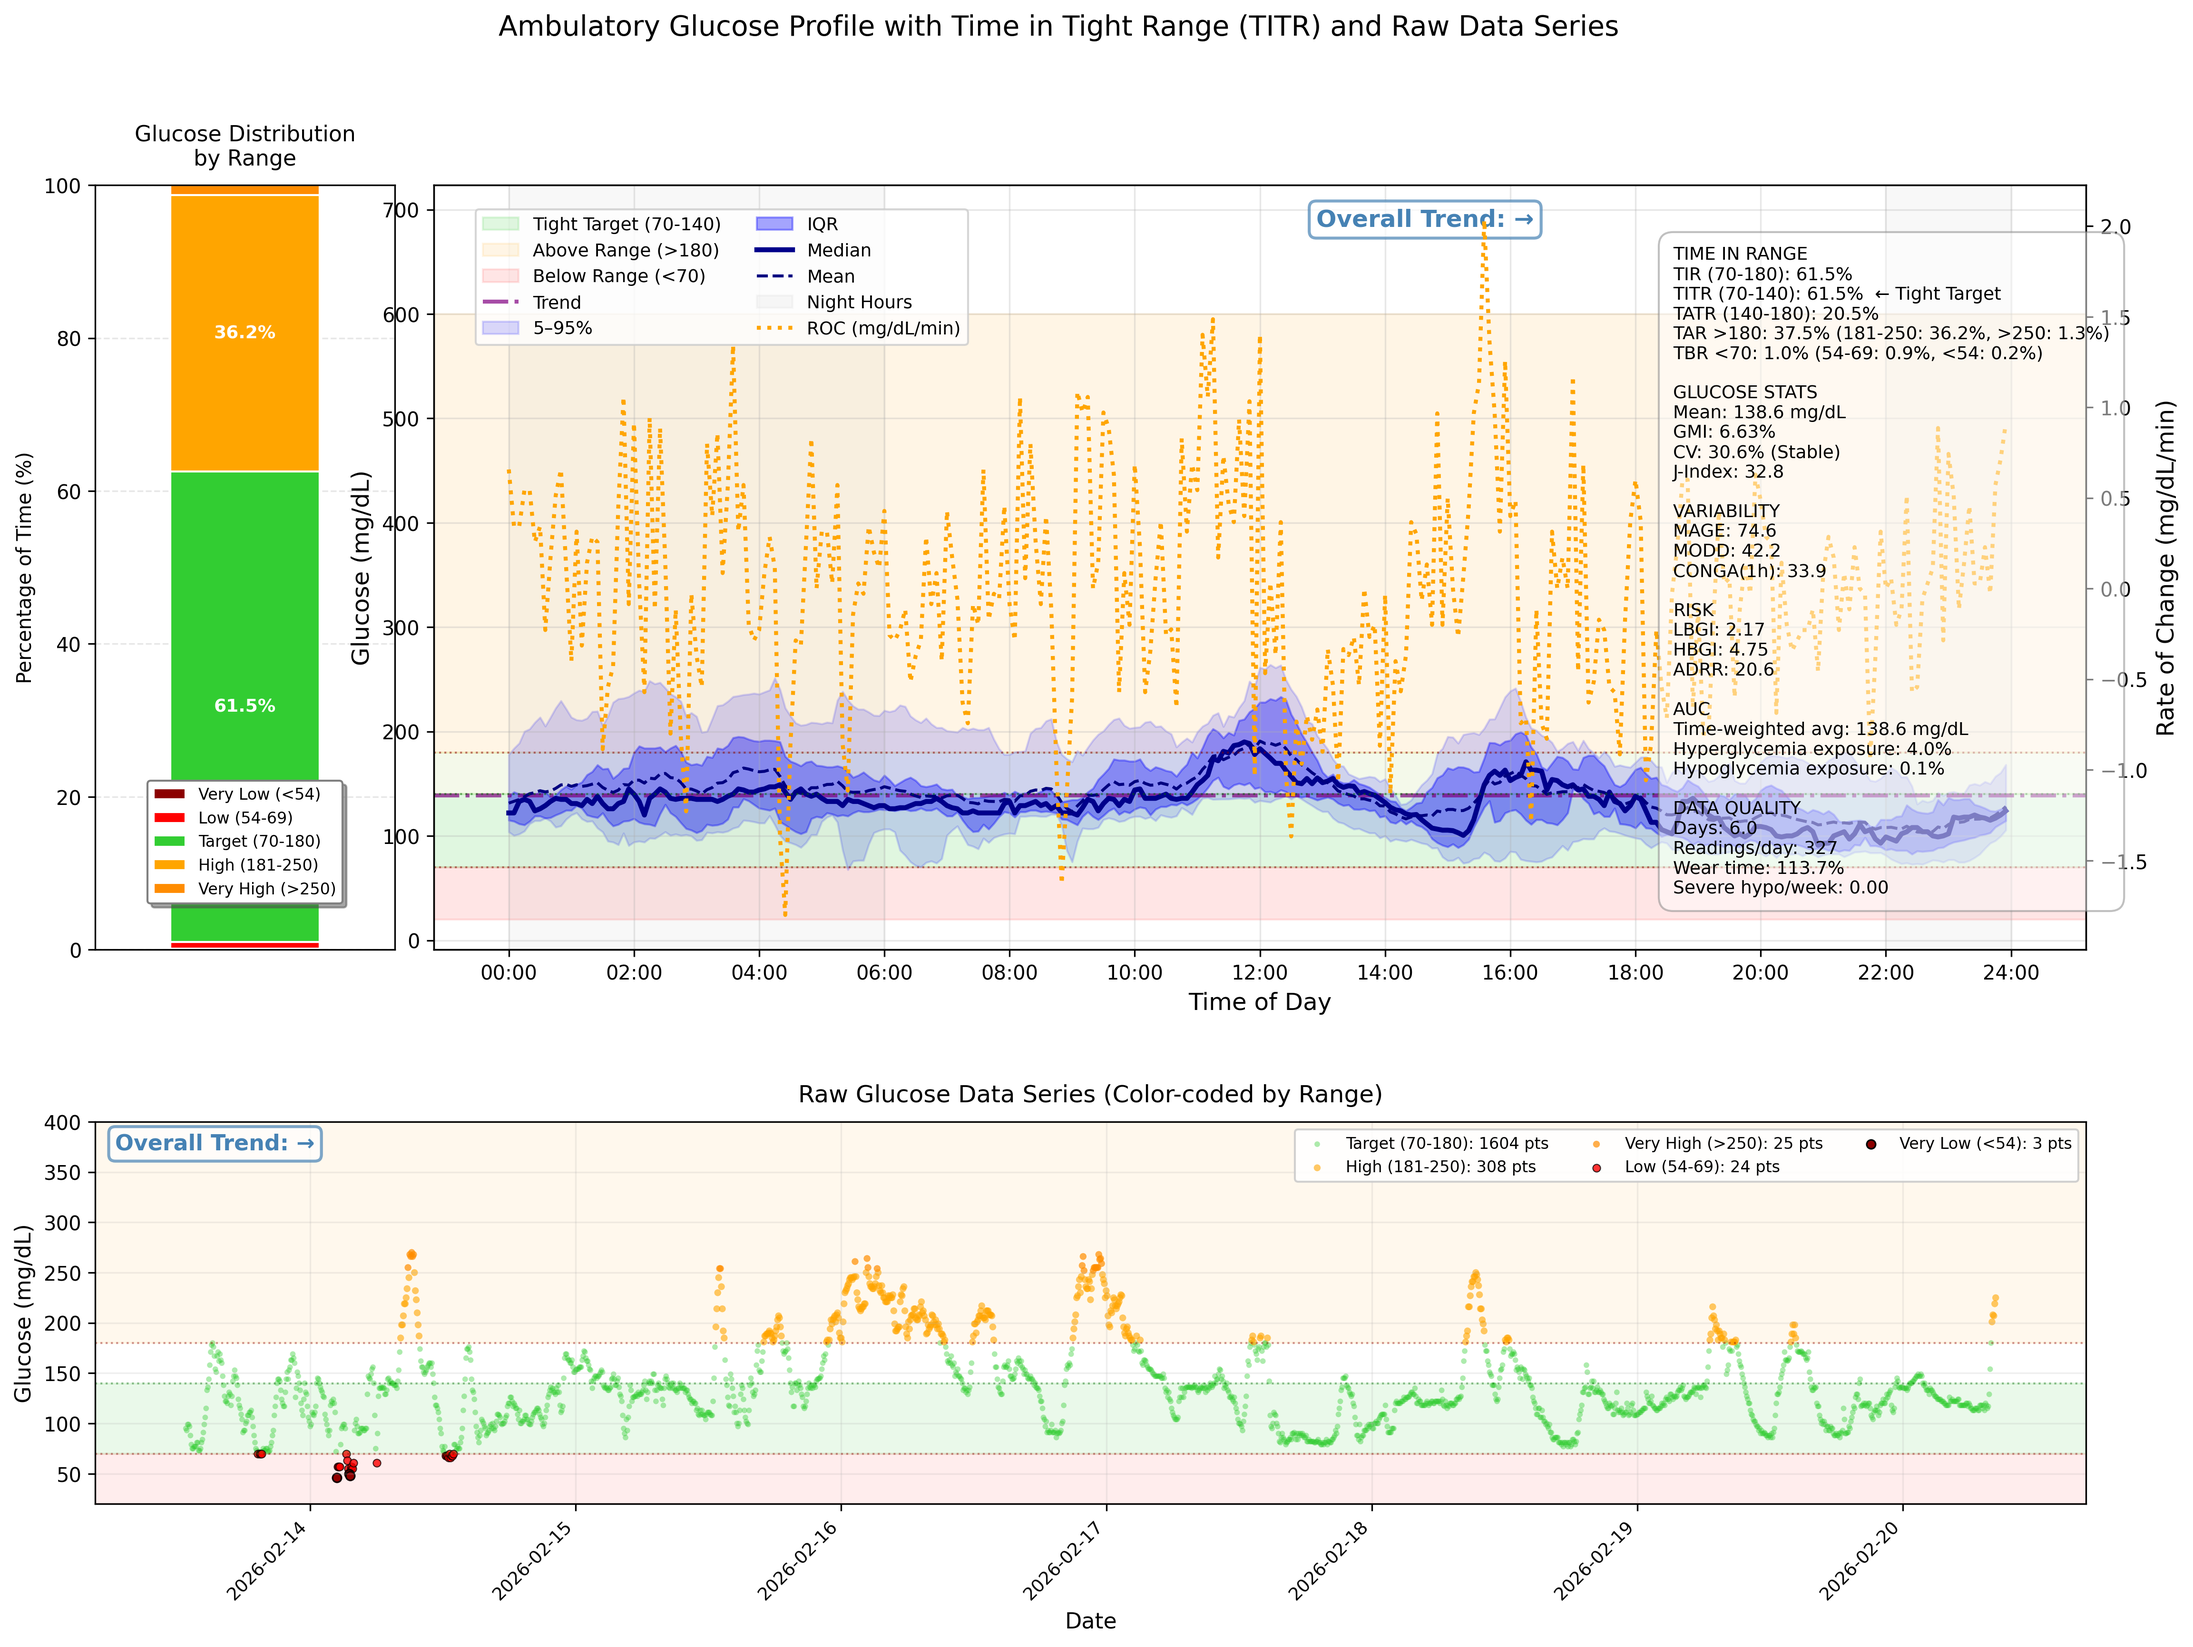
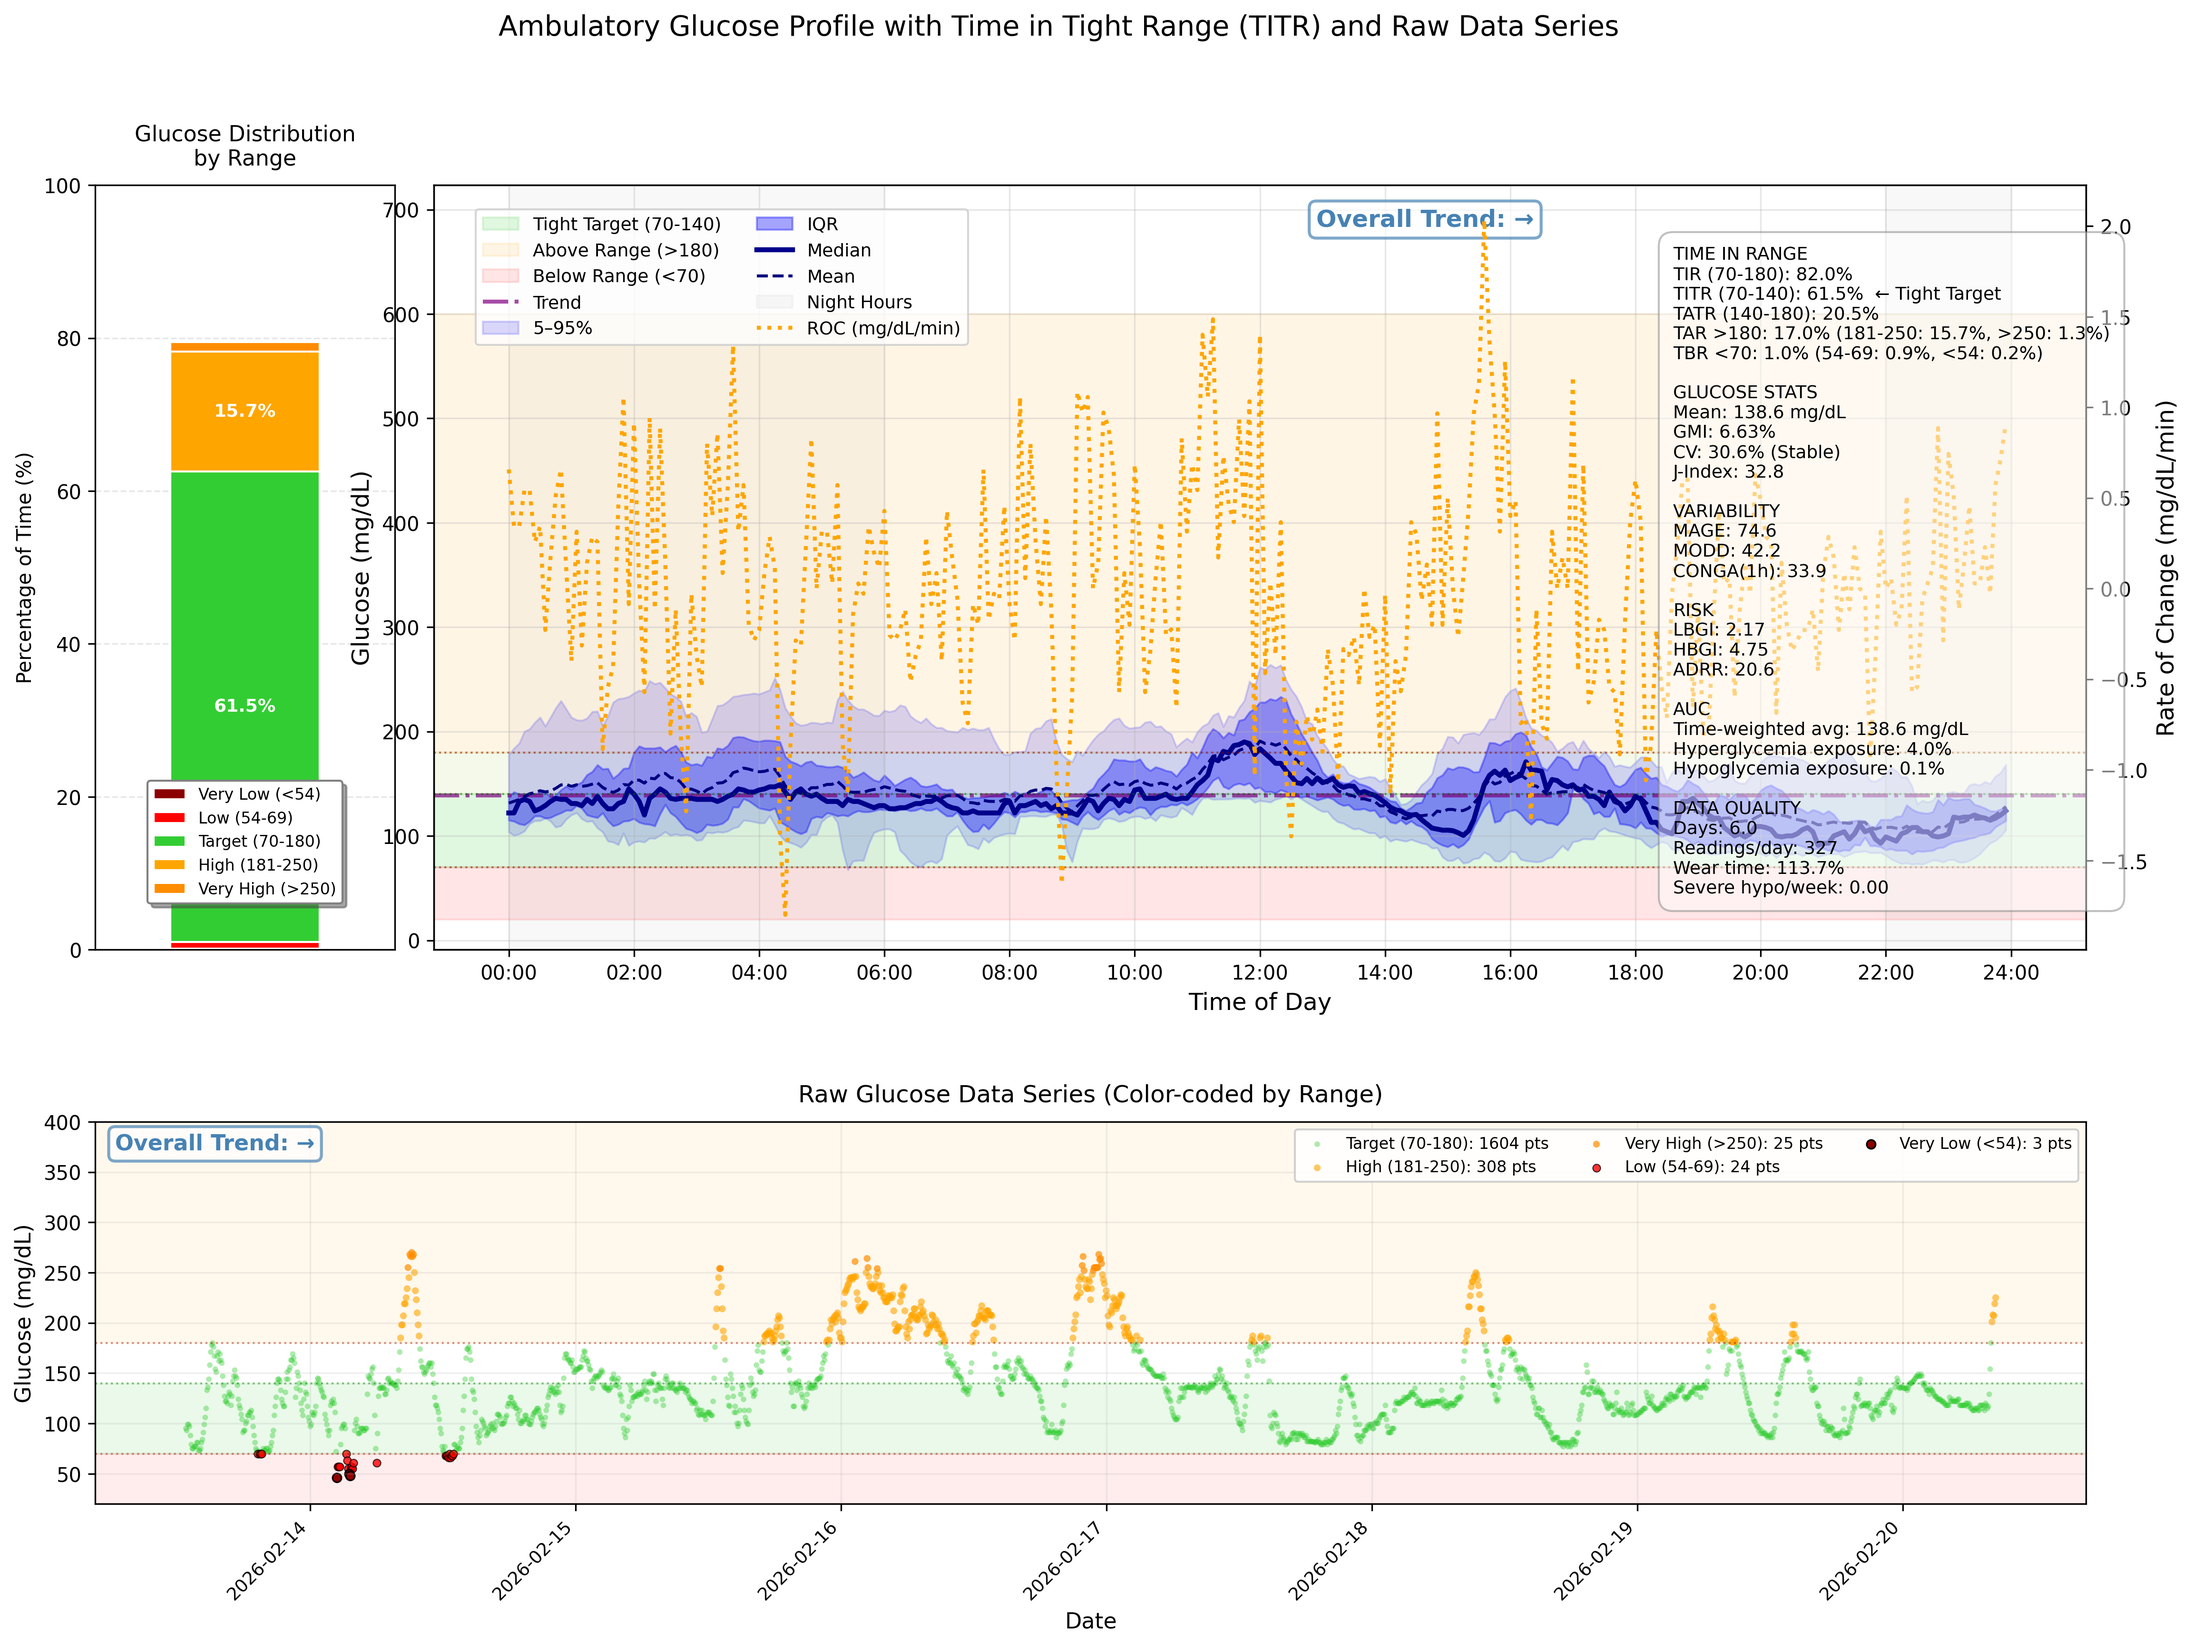
Fix bug

Changed region(s): [[0.0625, 0.0936, 0.1562, 0.2184]]

diff --git a/get_sensor.py b/get_sensor.py
@@ -190,9 +190,9 @@ total = len(glucose)
 
 # Calculate percentages for each glucose range
 very_low_pct = (glucose < 54).sum() / total * 100
-low_pct = ((glucose >= 54) & (glucose < TIGHT_LOW)).sum() / total * 100
-target_pct = ((glucose >= TIGHT_LOW) & (glucose <= TIGHT_HIGH)).sum() / total * 100
-high_pct = ((glucose > TIGHT_HIGH) & (glucose <= 250)).sum() / total * 100
+low_pct = ((glucose >= 54) & (glucose < LOW)).sum() / total * 100
+target_pct = ((glucose >= LOW) & (glucose <= HIGH)).sum() / total * 100
+high_pct = ((glucose > HIGH) & (glucose <= 250)).sum() / total * 100
 very_high_pct = (glucose > 250).sum() / total * 100
 
 # Time in Range (Standard: 70-180)
@@ -200,6 +200,8 @@ tir = target_pct
 
 # Time in Tight Range (70-140) - NEW METRIC
 titr = ((glucose >= TIGHT_LOW) & (glucose <= TIGHT_HIGH)).sum() / total * 100
+tight_target_pct = titr
+
 
 # Time Above Range (with levels)
 tar_level1 = high_pct
@@ -335,7 +337,7 @@ ax1 = fig.add_subplot(gs[0, 2:])
 # Create stacked bar chart of glucose distribution (EXACTLY AS ORIGINAL)
 categories = ['Very Low\n(<54)', 'Low\n(54-69)', 'Target\n(70-180)', 
               'High\n(181-250)', 'Very High\n(>250)']
-percentages = [very_low_pct, low_pct, target_pct, high_pct, very_high_pct]
+percentages = [very_low_pct, low_pct, tight_target_pct, high_pct, very_high_pct]
 colors = ['darkred', 'red', 'limegreen', 'orange', 'darkorange']
 labels = ['Very Low (<54)', 'Low (54-69)', 'Target (70-180)', 
           'High (181-250)', 'Very High (>250)']
